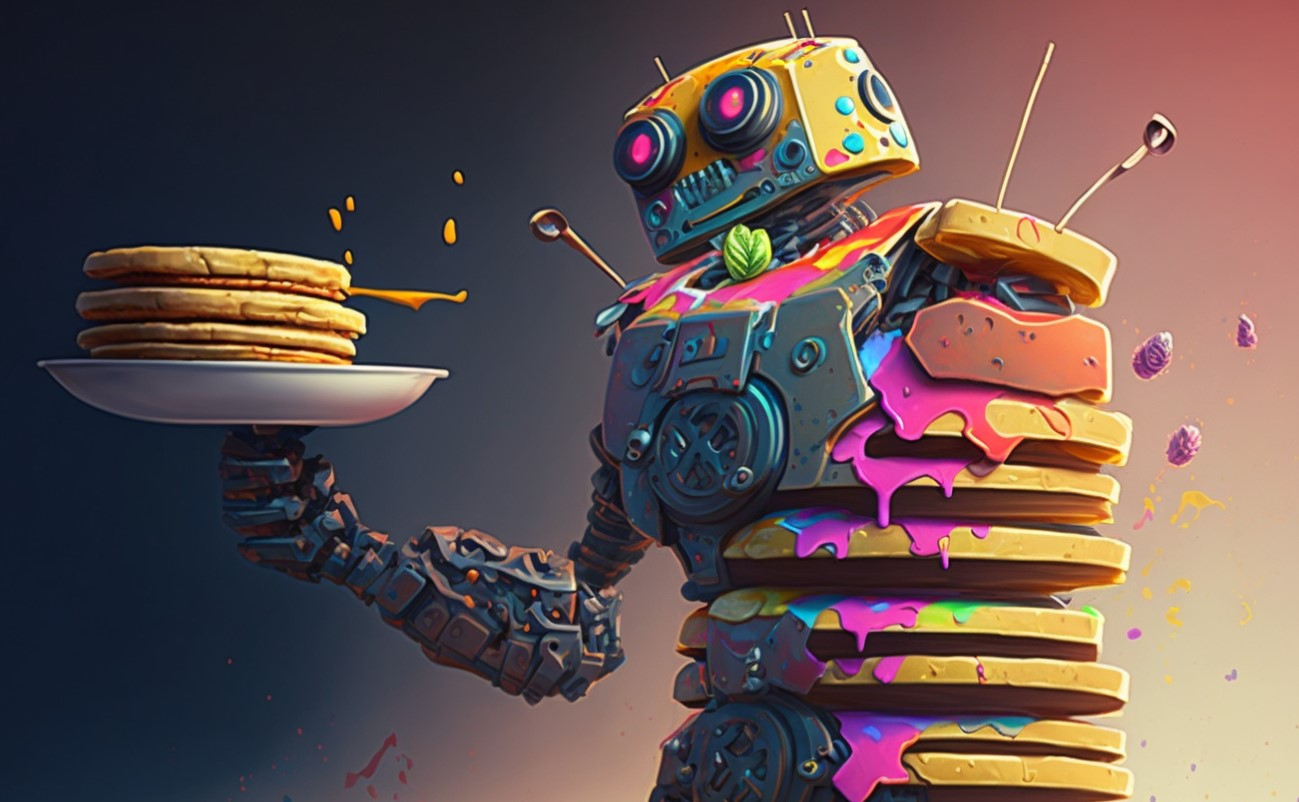
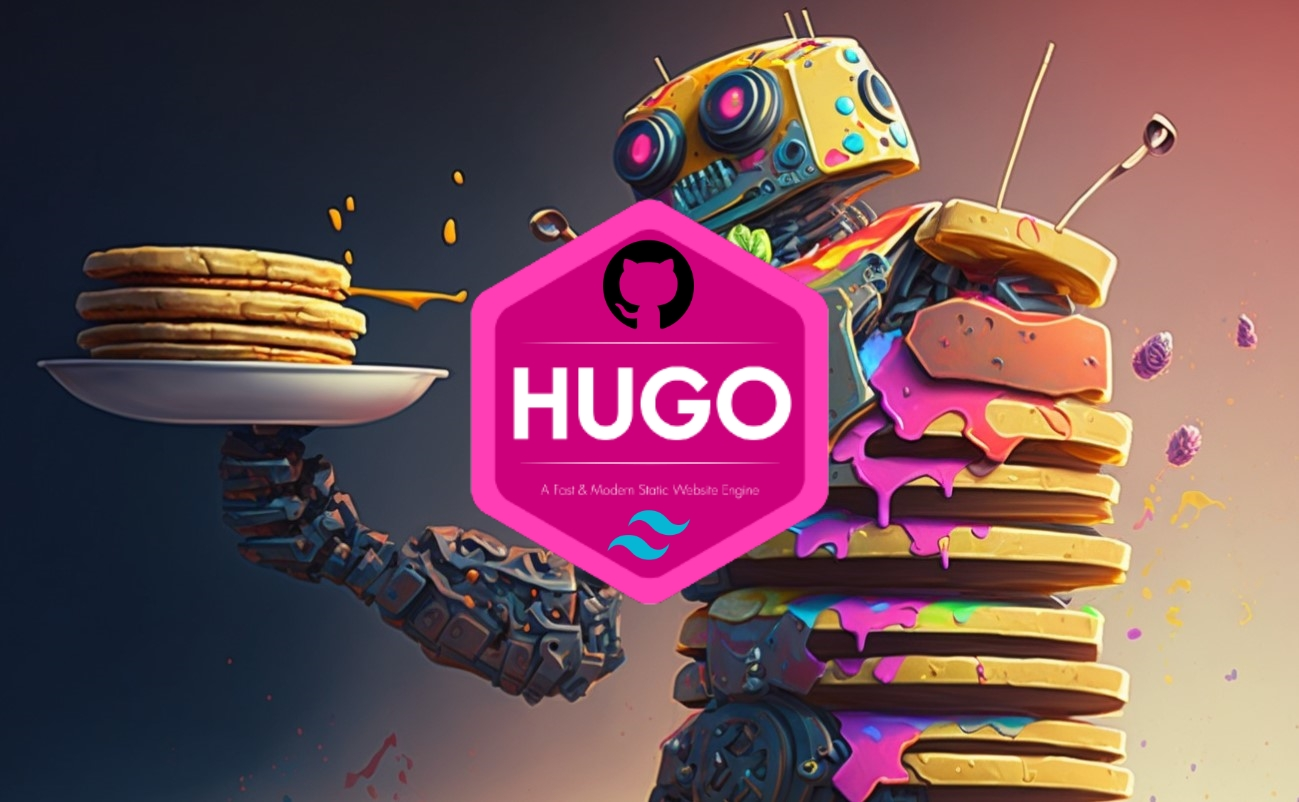
Change how-this-site-works.md

Changed region(s): [[0.3387, 0.2494, 0.6467, 0.7793]]

diff --git a/content/blog/how-this-site-works.md b/content/blog/how-this-site-works.md
@@ -37,8 +37,8 @@ Markdown'em.
 Miało być Gatsby 5. Jednak po jednodniowej, przegranej walce odpuszczam. Rozważając kilka innych możliwości, decyduję
 się w końcu na **Hugo**.
 **Hugo** to po prostu maszynka, która tak samo, jak npm wypluje nam paczkę gotową do umieszczenia na dowolnym serwerze
-HTTP. Nie ma tutaj mowy o SSR. Wszystko generujemy build time. Jeżeli zaś jest taka potrzeba, resztę możemy 
-pozostawić JavaScriptowi po stronie przeglądarki. 
+HTTP. Nie ma tutaj mowy o SSR. **Wszystko generujemy build time**. Jeżeli zaś jest taka potrzeba, resztę możemy 
+pozostawić JavaScriptowi po stronie przeglądarki (jak JS do otwierania i chowanie menu lub diagramy `mermaid`).
 
 W telegraficznym skrócie konstrukcja mojej strony przebiegała następująco:
 
@@ -245,28 +245,29 @@ kopia na pena i tyle.
 ## Dziennik pracy
 
 1. Wstępna inicjalizacja i konfiguracja projektu
-   1. Globalna instalacja Hugo ```scoop install hugo-extended```
-   2. Inicjalizacja projektu npm ```npm init```
-   3. Inicjalizacja repozytorium git ```git init```
-   4. Utworzenie repozytorium na GitHubie ```pmalirz.github.io``` (nazwa wymuszona przez GitHub Pages)
-      1. Utworzenie brancha ```/main```
-      2. Utworzenie brancha ```/gh-pages``` - branch techniczny, do którego trafia skompilowany kod z brancha /main 
+   1. Globalna instalacja Hugo `scoop install hugo-extended`
+   2. Inicjalizacja projektu npm `npm init`
+   3. Inicjalizacja repozytorium git `git init`
+   4. Utworzenie repozytorium na GitHubie `pmalirz.github.io` (nazwa wymuszona przez GitHub Pages)
+      1. Utworzenie brancha `/main`
+      2. Utworzenie brancha `/gh-pages` - branch techniczny, do którego trafia skompilowany kod z brancha /main 
          (czyli zawartosc katalogu _public_ tworzonego przez build _Hugo_). GitHub Actions sam wrzuca kompilat na 
          tego brancha.
          GitHub Pages releasuje)
    5. Zakup i konfiguracja domeny malirz.pl
-      1. Ręczna konfiguracja DNS w panelu dostawcy domeny ```przemek.malirz.pl	3600	CNAME	pmalirz.github.io```  
-      2. Konfiguracja domeny na repozytorium GitHub ```przemek.malirz.pl```
+      1. Ręczna konfiguracja DNS w panelu dostawcy domeny `przemek.malirz.pl	3600	CNAME	pmalirz.github.io`  
+      2. Konfiguracja domeny na repozytorium GitHub `przemek.malirz.pl`
          https:\//github.com/**[user]/[user].github.io**/settings/pages
 2. Początkowa konfiguracja strony
    1. Instalacja potrzebnych bibliotek do obsługi CSS i JS
-      1. Instalacja TailwindCSS ```npm i -D tailwindcss@latest postcss@latest autoprefixer@latest``` \
+      1. Instalacja TailwindCSS \
+         `npm i -D tailwindcss@latest postcss@latest autoprefixer@latest` \
          Sprawdź, w jaki sposób _Hugo_ buduje CSS bundle wrenderowując go w stronę: 
          ```js
          // Poszukaj resources.PostCSS
          themes/trainer/partials/head.html   
          ```
-      2. Instalacja Alpine.js ```npm i -D alpinejs``` \
+      2. Instalacja Alpine.js `npm i -D alpinejs` \
          Sprawdź w moim repozytorium pliki, w których globalnie odpalam Alpine.js dla strony:
          ```js
          // inicjalizacja Alpine.js
@@ -278,23 +279,23 @@ kopia na pena i tyle.
          ``` 
    2. Konfiguracja parametrów _Hugo_ w pliku ```config.toml``` 
    3. Utworzenie szkieletu folderów _Hugo_
-   4. Utworzenie własnego theme w _Hugo_. Folder ```themes/trainer```
+   4. Utworzenie własnego theme w _Hugo_. Folder `themes/trainer`
    5. Praca nad szablonami HTML w połączeniu z kodem sterującym _Hugo_
-      1. Zerknij koniecznie do ```themes/trainer/partials/head.html```
+      1. Zerknij koniecznie do `themes/trainer/partials/head.html`
          Znajdziesz w nim m.in. konfigurację Google Analytics oraz protokołu [Open Graph](https://ogp.me/).
          Jest też [Mermaid](https://mermaid.js.org/), którego jeszcze nie użyłem (ale działa)
 3. Tworzenie kontentu
-   1. Uruchamiam lokalnie serwer _Hugo_ ```npm run watch:hugo``` (zadanie zdefiniowane w ```package.json```). \
+   1. Uruchamiam lokalnie serwer _Hugo_ `npm run watch:hugo` (zadanie zdefiniowane w `package.json`). \
       W IntelliJ na Ctrl+S podglądam zmiany na przeglądarce.
-   2. Tworzenie Bloga - pliki _md_ w folderze ```content/blog```
-   2. Tworzenie Ofert - pliki _md_ w folderze ```content/offer```
-      1. Oferty renderowane są przez szablon ```layoyts/index.html``` iterując po plikach _md_. Dla każdego pliku 
-         _md_ tworzony jest kafelek, którego szablon jest w ```layouts/partials/offer-list-item.html```
+   2. Tworzenie Bloga - pliki _md_ w folderze `content/blog`
+   2. Tworzenie Ofert - pliki _md_ w folderze `content/offer`
+      1. Oferty renderowane są przez szablon `layoyts/index.html` iterując po plikach _md_. Dla każdego pliku 
+         _md_ tworzony jest kafelek, którego szablon jest w `layouts/partials/offer-list-item.html`
 4. Publikacja
-   1. Git push zmian brancha ```/main```  na zdalne repozytorium ```przemek.malirz.pl```
+   1. Git push zmian brancha `/main`  na zdalne repozytorium `przemek.malirz.pl`
       1. Jeżeli publikujemy pliki _md_, które są pracami w toku, wystarczy w ich nagłówku ustawić zmienną _Hugo_ 
-         ```Draft: true``` 
-   2. GitHub Actions samoczynnie zbuduje i wcommituje zmiany do brancha ```/gh-pages```
+         `Draft: true` 
+   2. GitHub Actions samoczynnie zbuduje i wcommituje zmiany do brancha `/gh-pages`
    3. GitHub Pages pobiera każdą zmianę, udostępniając ją w domenie publicznej (zmiany są widoczne na internecie)
       Uwaga! Publikacja działa z opóźnieniem, możesz na ten temat poczytać w internecie
    
